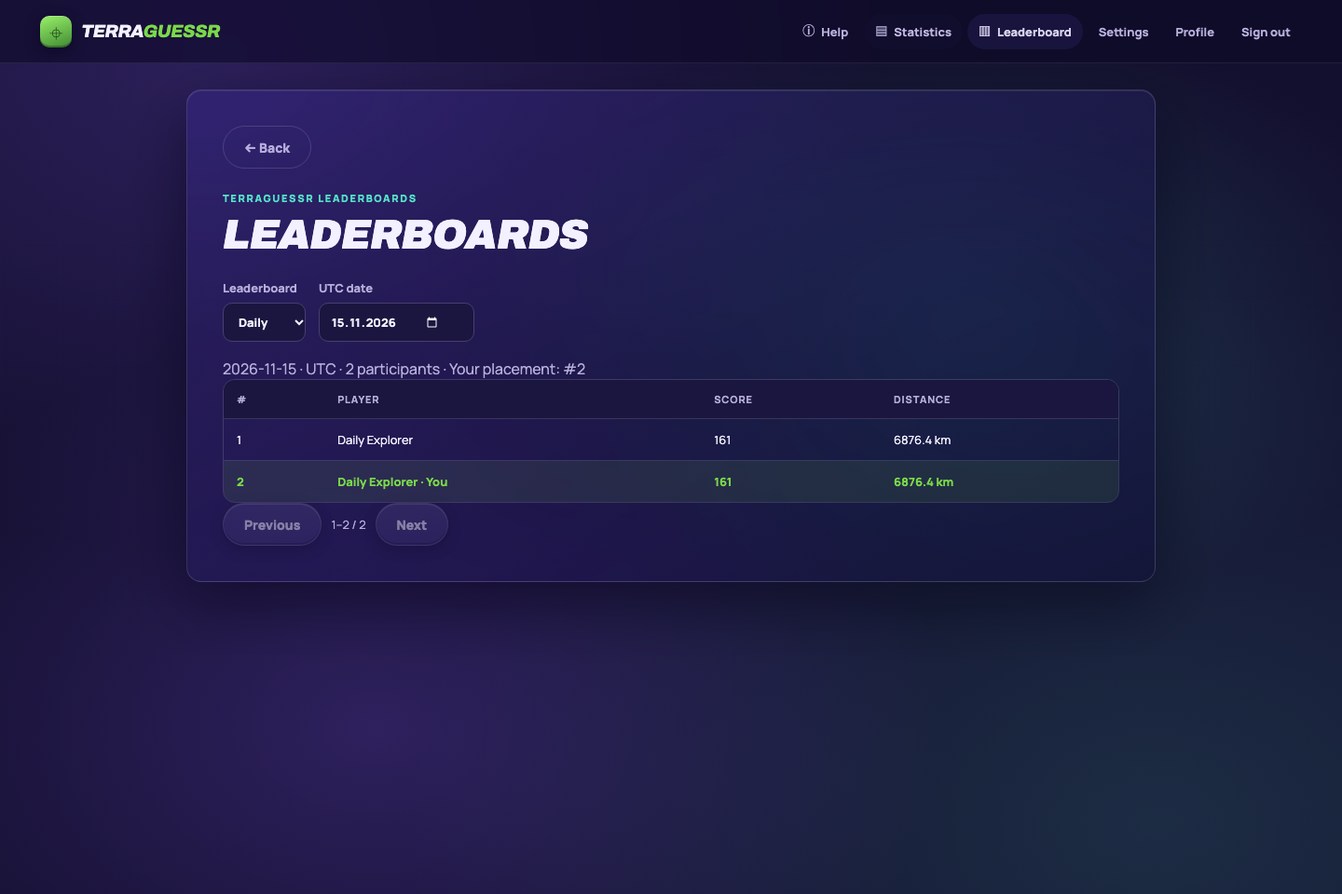
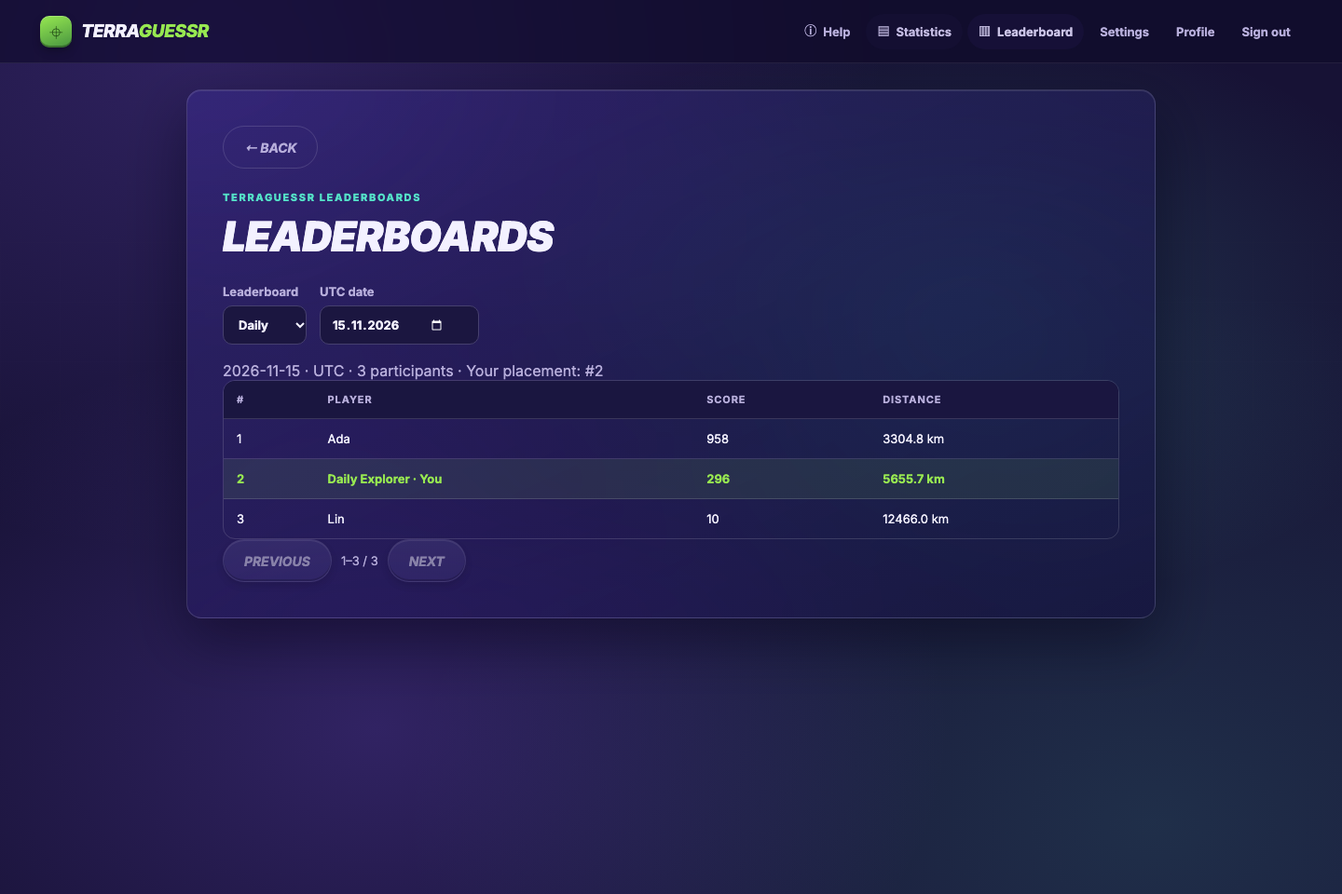
feat: correct design tokens and reskin challenge/duels against real Figma file
Inspects the actual Figma file (sIKTjQ2LtnU5acvpcwZELG) via the Figma MCP
instead of continuing to guess at GeoGuessr's visual language from the live
site. It has three html.to.design-imported sections: the Duels lobby, and
two captures of the GeoGuessr homepage (authenticated dashboard + logged-out
marketing page).

Pulls exact values out of the Duels frame's design context (Inter Black/Bold
Italic, #171235 background, #97e851->#479440 green CTA gradient with its
inset-shadow recipe, #ffc628 gold and the Champion/Master/Gold/Silver/Bronze
rank colors) into design-system.css, replacing the prior redesign's
measured-from-the-live-site approximations. Because the whole app already
runs on these --tg-* tokens, every existing screen inherits the corrected
palette/type/button recipe for free.

Reskins "Challenge a friend" - TerraGuessr's real async-duel feature
(create/share/join/leaderboard) - directly against the Duels frame: bigger
italic/uppercase heading, a rank-tier accent bar, and gold/silver/bronze
rank badges on the leaderboard rows, all driven by the real
LeaderboardEntryDTO.rank. No fake opponent pairing or duel-round tabs were
added since the backend has none of that. Dashboard cards get a small icon
badge matching the Figma card layout.

Verified against the real stack (docker compose up -d --build frontend):
full solo game, challenge create/join, and signup all screenshot cleanly at
1920x1080/1440x900/390x844 with no overflow. 42/42 unit tests and 20/20 e2e
[…]

diff --git a/frontend/src/styles/design-system.css b/frontend/src/styles/design-system.css
@@ -1,45 +1,54 @@
-@import url('https://fonts.googleapis.com/css2?family=DM+Mono:wght@400;500&family=Manrope:wght@400;500;600;700;800&family=Archivo:ital,wght@0,700;0,800;0,900;1,700;1,800;1,900&display=swap');
+@import url('https://fonts.googleapis.com/css2?family=DM+Mono:wght@400;500&family=Inter:ital,wght@0,400;0,500;0,600;0,700;0,800;0,900;1,400;1,500;1,700;1,800;1,900&display=swap');
 
 :root {
-  font-family: 'Manrope', ui-sans-serif, system-ui, -apple-system, BlinkMacSystemFont, 'Segoe UI', sans-serif;
+  font-family: 'Inter', ui-sans-serif, system-ui, -apple-system, BlinkMacSystemFont, 'Segoe UI', sans-serif;
   color: #f3f1ff;
-  background: #130f2e;
+  background: #171235;
   font-synthesis: none;
   text-rendering: optimizeLegibility;
 
-  /* Core surface scale — deep indigo/purple, measured from reference. */
-  --tg-bg: #130f2e;
-  --tg-bg-rgb: 19 15 46;
+  /* Core surface scale — exact values pulled from the Figma file
+     (sIKTjQ2LtnU5acvpcwZELG), not estimated from the live site. */
+  --tg-bg: #171235;
+  --tg-bg-rgb: 23 18 53;
   --tg-surface: #1c1744;
-  --tg-panel: #221c4e;
-  --tg-raised: #2c2563;
+  --tg-panel: #211a4c;
+  --tg-raised: #393273;
   --tg-line: rgb(255 255 255 / 14%);
   --tg-text: #f3f1ff;
   --tg-muted: #b7aedb;
   --tg-soft: #8d84b8;
 
-  /* Accent system: green = primary action, teal/mint = info & focus, violet = highlight. */
-  --tg-green: #7bd84a;
-  --tg-green-dark: #3f8a33;
+  /* Accent system: green = primary action, gold = highlight/rank,
+     teal/mint = info & focus, rank-tier colors match the Figma Duels ladder. */
+  --tg-green: #97e851;
+  --tg-green-dark: #479440;
   --tg-green-ink: #0d2a08;
+  --tg-gold: #ffc628;
   --tg-mint: #54e0c7;
+  --tg-teal: #3ae8bd;
   --tg-violet: #a78bfa;
   --tg-blue: #6fb2ff;
   --tg-danger: #ff6b6b;
-  --tg-danger-strong: #e23b50;
+  --tg-danger-strong: #e94555;
+  --tg-rank-champion: #00a2fe;
+  --tg-rank-master: #e94555;
+  --tg-rank-gold: #ffc628;
+  --tg-rank-silver: #ffffff;
+  --tg-rank-bronze: #ffa43d;
 
   --tg-radius-sm: 10px;
   --tg-radius-md: 16px;
-  --tg-radius-lg: 26px;
+  --tg-radius-lg: 24px;
   --tg-radius-pill: 999px;
 
   --tg-shadow: 0 24px 64px rgb(5 3 20 / 46%);
-  --tg-shadow-pop: 0 4px 16px rgb(5 3 20 / 45%), inset 0 1px 0 rgb(255 255 255 / 22%), inset 0 -2px 0 rgb(0 0 0 / 26%);
+  --tg-shadow-pop: 0 4px 9px rgb(0 0 0 / 25%), inset 0 1px 0 rgb(255 255 255 / 20%), inset 0 -2px 0 rgb(0 0 0 / 30%);
   --tg-glass-blur: blur(26px) saturate(160%);
   --tg-glass-blur-sm: blur(14px) saturate(140%);
-  --tg-glass-bg: linear-gradient(155deg, rgb(55 46 110 / 46%), rgb(19 15 46 / 62%));
+  --tg-glass-bg: linear-gradient(155deg, rgb(57 50 115 / 46%), rgb(23 18 53 / 62%));
   --tg-glass-bg-soft: rgb(44 37 92 / 38%);
-  --tg-glass-bg-strong: linear-gradient(155deg, rgb(58 49 118 / 76%), rgb(17 13 40 / 86%));
+  --tg-glass-bg-strong: linear-gradient(155deg, rgb(57 50 115 / 76%), rgb(17 13 40 / 86%));
   --tg-glass-border: rgb(255 255 255 / 14%);
   --tg-glass-highlight: inset 0 1px 0 rgb(255 255 255 / 10%);
 
@@ -51,7 +60,8 @@
   --tg-space-8: 32px;
   --tg-motion: 160ms ease;
 
-  --tg-font-display: 'Archivo', 'Manrope', sans-serif;
+  /* Figma: Inter Black Italic for headings, Inter Bold Italic for emphasis/buttons. */
+  --tg-font-display: 'Inter', ui-sans-serif, sans-serif;
 }
 
 * { box-sizing: border-box; }
@@ -73,7 +83,7 @@ button:focus-visible, a:focus-visible, input:focus-visible, select:focus-visible
 .tg-topbar-compact .tg-brand-name { font-size: 15px; }
 .tg-topbar-compact .tg-brand-mark { width: 28px; height: 28px; font-size: 14px; }
 .tg-brand { display: inline-flex; align-items: center; gap: 10px; color: inherit; text-decoration: none; white-space: nowrap; }
-.tg-brand-mark { width: 34px; height: 34px; display: grid; place-items: center; border-radius: 10px; color: #0d2a08; background: linear-gradient(160deg, #9af06a, var(--tg-green-dark)); font-size: 17px; box-shadow: var(--tg-shadow-pop); }
+.tg-brand-mark { width: 34px; height: 34px; display: grid; place-items: center; border-radius: 10px; color: var(--tg-green-ink); background: linear-gradient(160deg, var(--tg-green), var(--tg-green-dark)); font-size: 17px; box-shadow: var(--tg-shadow-pop); }
 .tg-brand-name { font-family: var(--tg-font-display); font-weight: 800; font-style: italic; letter-spacing: -.02em; font-size: 19px; text-transform: uppercase; }
 .tg-brand-name span { color: var(--tg-green); }
 .tg-nav { display: flex; align-items: center; gap: 5px; }
@@ -88,11 +98,11 @@ button:focus-visible, a:focus-visible, input:focus-visible, select:focus-visible
 .tg-panel { border: 1px solid var(--tg-glass-border); border-radius: var(--tg-radius-md); background: var(--tg-glass-bg); backdrop-filter: var(--tg-glass-blur); -webkit-backdrop-filter: var(--tg-glass-blur); box-shadow: var(--tg-shadow), var(--tg-glass-highlight); }
 
 /* ---------- Buttons: glossy pill system (measured shadow recipe) ---------- */
-.tg-button { min-height: 46px; padding: 0 22px; display: inline-flex; justify-content: center; align-items: center; gap: 9px; border: 1px solid transparent; border-radius: var(--tg-radius-pill); background: var(--tg-raised); color: var(--tg-text); font-size: 14px; font-weight: 800; cursor: pointer; transition: transform var(--tg-motion), filter var(--tg-motion), border-color var(--tg-motion), box-shadow var(--tg-motion); box-shadow: var(--tg-shadow-pop); }
+.tg-button { min-height: 46px; padding: 0 22px; display: inline-flex; justify-content: center; align-items: center; gap: 9px; border: 1px solid transparent; border-radius: var(--tg-radius-pill); background: var(--tg-raised); color: var(--tg-text); font-family: var(--tg-font-display); font-style: italic; font-size: 14px; font-weight: 700; text-transform: uppercase; letter-spacing: -.005em; cursor: pointer; transition: transform var(--tg-motion), filter var(--tg-motion), border-color var(--tg-motion), box-shadow var(--tg-motion); box-shadow: var(--tg-shadow-pop); }
 .tg-button:hover:not(:disabled) { transform: translateY(-1px); filter: brightness(1.08); }
 .tg-button:active:not(:disabled) { transform: translateY(0); filter: brightness(0.98); }
 .tg-button:disabled { opacity: .48; cursor: not-allowed; }
-.tg-button-primary { color: var(--tg-green-ink); background: linear-gradient(180deg, #9af06a 0%, var(--tg-green-dark) 100%); }
+.tg-button-primary { color: #fff; text-shadow: 0 1px 2px var(--tg-bg); background: linear-gradient(180deg, var(--tg-green) 0%, var(--tg-green-dark) 100%); }
 .tg-button-secondary { color: var(--tg-text); background: linear-gradient(180deg, rgb(189 181 255 / 20%) 0%, rgb(143 134 230 / 20%) 100%); border-color: rgb(255 255 255 / 16%); }
 .tg-button-quiet { background: transparent; border-color: var(--tg-line); color: var(--tg-muted); box-shadow: none; }
 .tg-button-quiet:hover:not(:disabled) { background: rgb(255 255 255 / 6%); }
@@ -101,7 +111,7 @@ button:focus-visible, a:focus-visible, input:focus-visible, select:focus-visible
 .tg-difficulty-picker [role='radiogroup'] { display: grid; grid-template-columns: repeat(3, minmax(0, 1fr)); gap: 10px; }
 .tg-difficulty-card { position: relative; min-height: 112px; display: flex; flex-direction: column; justify-content: center; gap: 8px; padding: 16px; border: 1px solid var(--tg-line); border-radius: var(--tg-radius-md); background: var(--tg-surface); color: var(--tg-text); font-weight: 400; cursor: pointer; overflow: hidden; transition: border-color var(--tg-motion), background var(--tg-motion), transform var(--tg-motion); }
 .tg-difficulty-card::before { content: ''; position: absolute; inset: 0 0 auto 0; height: 4px; background: var(--tg-tier-color, var(--tg-line)); opacity: .9; }
-.tg-difficulty-card[data-testid='difficulty-option-easy'] { --tg-tier-color: linear-gradient(90deg, #7bd84a, #54e0c7); }
+.tg-difficulty-card[data-testid='difficulty-option-easy'] { --tg-tier-color: linear-gradient(90deg, var(--tg-green), var(--tg-mint)); }
 .tg-difficulty-card[data-testid='difficulty-option-medium'] { --tg-tier-color: linear-gradient(90deg, #ffd166, #ff9f43); }
 .tg-difficulty-card[data-testid='difficulty-option-hard'] { --tg-tier-color: linear-gradient(90deg, #ff6b6b, #e23b50); }
 .tg-difficulty-card:hover { border-color: rgb(255 255 255 / 30%); transform: translateY(-2px); }
@@ -171,8 +181,9 @@ button:focus-visible, a:focus-visible, input:focus-visible, select:focus-visible
 /* ---------- Dashboard (authenticated home) ---------- */
 .tg-dashboard { max-width: 1180px; margin: clamp(28px, 7vh, 72px) auto; }
 .tg-dashboard h1 { margin: 8px 0; font-family: var(--tg-font-display); font-weight: 900; font-style: italic; text-transform: uppercase; font-size: clamp(34px, 5.4vw, 54px); letter-spacing: -.015em; }
-.tg-dashboard-card { max-width: 520px; margin-top: 28px; padding: clamp(22px, 4vw, 34px); transition: transform var(--tg-motion), border-color var(--tg-motion); }
+.tg-dashboard-card { position: relative; max-width: 520px; margin-top: 28px; padding: clamp(22px, 4vw, 34px); transition: transform var(--tg-motion), border-color var(--tg-motion); }
 .tg-dashboard-card p { color: var(--tg-muted); line-height: 1.65; }
+.tg-dashboard-card-icon { position: absolute; top: clamp(18px, 3vw, 26px); right: clamp(18px, 3vw, 26px); width: 42px; height: 42px; display: grid; place-items: center; border-radius: 13px; background: var(--tg-glass-bg-soft); border: 1px solid var(--tg-glass-border); font-size: 19px; }
 .tg-dashboard-user { display: flex; align-items: center; gap: 10px; padding: 6px 10px 6px 6px; border: 1px solid var(--tg-line); border-radius: var(--tg-radius-pill); color: var(--tg-muted); font-size: 12px; }
 .tg-avatar { width: 30px; height: 30px; display: grid; place-items: center; border-radius: 50%; color: var(--tg-green-ink); background: var(--tg-green); font-weight: 800; }
 .tg-dashboard-grid { display: grid; grid-template-columns: repeat(auto-fit, minmax(min(100%, 320px), 1fr)); gap: 18px; align-items: stretch; }
@@ -256,7 +267,7 @@ button:focus-visible, a:focus-visible, input:focus-visible, select:focus-visible
 .tg-candidate:hover { border-color: rgb(255 255 255 / 32%); transform: translateY(-2px); }
 .tg-candidate[aria-pressed='true'] { border-color: var(--tg-green); background: rgb(123 216 74 / 12%); box-shadow: inset 0 0 0 1px rgb(123 216 74 / 24%); }
 .tg-candidate-index { width: 36px; height: 36px; flex: 0 0 36px; display: grid; place-items: center; border-radius: 11px; color: #0b0a18; font-family: var(--tg-font-display); font-style: italic; font-size: 14px; font-weight: 800; }
-.tg-candidate-list li:nth-child(4n+1) .tg-candidate-index { background: linear-gradient(160deg, #9af06a, var(--tg-green-dark)); }
+.tg-candidate-list li:nth-child(4n+1) .tg-candidate-index { background: linear-gradient(160deg, var(--tg-green), var(--tg-green-dark)); }
 .tg-candidate-list li:nth-child(4n+2) .tg-candidate-index { background: linear-gradient(160deg, #7fe8d4, #2fae97); }
 .tg-candidate-list li:nth-child(4n+3) .tg-candidate-index { background: linear-gradient(160deg, #ffd166, #e8942f); }
 .tg-candidate-list li:nth-child(4n+4) .tg-candidate-index { background: linear-gradient(160deg, #c3b2ff, #7b53e6); }
@@ -357,7 +368,7 @@ button:focus-visible, a:focus-visible, input:focus-visible, select:focus-visible
 .tg-setup-subsection summary::-webkit-details-marker { display: none; }
 .tg-setup-subsection[open] summary { margin-bottom: 14px; }
 .tg-setup-label { display: grid; gap: 8px; color: #e3deff; font-size: 12px; font-weight: 800; }
-.tg-setup-label select { width: 100%; min-height: 45px; padding: 0 12px; border: 1px solid #45406e; border-radius: var(--tg-radius-sm); color: var(--tg-text); background: #130f2e; }
+.tg-setup-label select { width: 100%; min-height: 45px; padding: 0 12px; border: 1px solid #45406e; border-radius: var(--tg-radius-sm); color: var(--tg-text); background: var(--tg-bg); }
 .tg-setup-checkbox { display: inline-flex; align-items: center; gap: 10px; color: #e3deff; font-size: 12px; font-weight: 700; }
 .tg-setup-checkbox input { width: 18px; height: 18px; accent-color: var(--tg-green); }
 .tg-account-form, .tg-delete-confirm { margin-top: 20px; display: grid; justify-items: start; gap: 13px; }
@@ -467,24 +478,38 @@ button:focus-visible, a:focus-visible, input:focus-visible, select:focus-visible
   .tg-leaderboard-table td:nth-child(3)::before { content: 'PTS '; color: var(--tg-muted); font-size: 9px; }
   .tg-leaderboard-table td:nth-child(4)::before { content: 'KM '; color: var(--tg-muted); font-size: 9px; }
 }
-.tg-challenge-panel { margin-top: 24px; padding: clamp(18px, 3vw, 26px); }
-.tg-challenge-panel h2 { margin: 0 0 4px; font-family: var(--tg-font-display); font-weight: 800; font-style: italic; text-transform: uppercase; font-size: 21px; letter-spacing: -.01em; }
-.tg-challenge-panel > p.tg-muted { margin: 0 0 14px; font-size: 13px; line-height: 1.6; }
+/* Challenge ("async duel") — reskinned against the Figma Duels lobby frame:
+   big italic uppercase heading, pill tabs/badges, rank-tiered leaderboard. */
+.tg-challenge-panel { position: relative; margin-top: 24px; padding: clamp(22px, 4vw, 34px); border-radius: var(--tg-radius-lg); overflow: hidden; }
+.tg-challenge-panel::before { content: ''; position: absolute; inset: 0 0 auto 0; height: 3px; background: linear-gradient(90deg, var(--tg-rank-champion), var(--tg-rank-gold), var(--tg-rank-master), var(--tg-blue)); opacity: .8; }
+.tg-challenge-panel h2 { margin: 0 0 6px; font-family: var(--tg-font-display); font-weight: 900; font-style: italic; text-transform: uppercase; font-size: clamp(22px, 3vw, 30px); letter-spacing: -.015em; }
+.tg-challenge-panel > p.tg-muted { margin: 0 0 16px; font-size: 13px; line-height: 1.6; max-width: 46ch; }
 .tg-challenge-share { margin-top: 14px; }
-.tg-challenge-share label, .tg-challenge-join label { display: block; margin-bottom: 7px; color: #e3deff; font-size: 12px; font-weight: 800; }
+.tg-challenge-share label, .tg-challenge-join label { display: block; margin-bottom: 7px; color: #e3deff; font-size: 12px; font-weight: 700; font-style: italic; text-transform: uppercase; letter-spacing: .02em; }
 .tg-challenge-row { display: flex; gap: 8px; }
-.tg-challenge-row input { flex: 1; min-width: 0; min-height: 42px; padding: 0 12px; border: 1px solid #45406e; border-radius: var(--tg-radius-sm); background: #140f30; color: var(--tg-text); font: inherit; }
+.tg-challenge-row input { flex: 1; min-width: 0; min-height: 44px; padding: 0 14px; border: 1px solid #45406e; border-radius: var(--tg-radius-sm); background: #140f30; color: var(--tg-text); font: inherit; }
 .tg-challenge-row input:focus { border-color: var(--tg-mint); }
 .tg-challenge-join { margin-top: 18px; }
-.tg-challenge-status { margin: 8px 0 0; color: var(--tg-mint); font-size: 12px; }
+.tg-challenge-status { margin: 8px 0 0; color: var(--tg-teal); font-size: 12px; font-weight: 700; }
 .tg-challenge-error { margin: 8px 0 0; color: #ffd2d2; font-size: 12px; }
-.tg-challenge-leaderboard { margin-top: 18px; }
-.tg-challenge-leaderboard h3 { margin: 0 0 10px; font-size: 14px; color: var(--tg-text); }
-.tg-challenge-table-wrap { max-width: 100%; overflow-x: auto; border: 1px solid var(--tg-line); border-radius: 12px; }
+.tg-challenge-leaderboard { margin-top: 22px; }
+.tg-challenge-leaderboard h3 { margin: 0 0 12px; font-family: var(--tg-font-display); font-weight: 800; font-style: italic; text-transform: uppercase; letter-spacing: .02em; font-size: 13px; color: var(--tg-soft); }
+.tg-challenge-table-wrap { max-width: 100%; overflow-x: auto; border: 1px solid var(--tg-line); border-radius: 14px; }
 .tg-challenge-table { width: 100%; min-width: 420px; border-collapse: collapse; font-size: 13px; }
-.tg-challenge-table th, .tg-challenge-table td { padding: 10px 12px; border-bottom: 1px solid var(--tg-line); text-align: left; }
+.tg-challenge-table th, .tg-challenge-table td { padding: 11px 14px; border-bottom: 1px solid var(--tg-line); text-align: left; }
 .tg-challenge-table th { color: var(--tg-muted); background: #1a1640; font-size: 11px; letter-spacing: .06em; text-transform: uppercase; }
 .tg-challenge-table tr:last-child td { border-bottom: 0; }
 .tg-challenge-loading, .tg-challenge-empty { color: var(--tg-muted); font-size: 13px; }
 .tg-challenge-join-page { max-width: 760px; margin: 30px auto; padding: clamp(22px, 4vw, 36px); }
+
+/* Rank badge — small bordered circle + colour-coded label, matching the
+   Figma Duels rank ladder (Champion/Master/Gold/Silver/Bronze markers). */
+.tg-rank-cell { display: flex; align-items: center; gap: 9px; }
+.tg-rank-badge { width: 20px; height: 20px; flex: 0 0 20px; border-radius: 6px; border: 2px solid var(--tg-line); background: var(--tg-bg); display: grid; place-items: center; font-family: var(--tg-font-display); font-style: italic; font-size: 10px; font-weight: 800; color: var(--tg-muted); }
+.tg-challenge-table tr[data-tier='1'] .tg-rank-badge { border-color: var(--tg-rank-gold); color: var(--tg-rank-gold); }
+.tg-challenge-table tr[data-tier='2'] .tg-rank-badge { border-color: var(--tg-rank-silver); color: var(--tg-rank-silver); }
+.tg-challenge-table tr[data-tier='3'] .tg-rank-badge { border-color: var(--tg-rank-bronze); color: var(--tg-rank-bronze); }
+.tg-challenge-table tr[data-tier='1'] td:nth-child(2) { color: var(--tg-rank-gold); font-weight: 800; }
+.tg-challenge-table tr[data-tier='2'] td:nth-child(2) { color: var(--tg-rank-silver); font-weight: 800; }
+.tg-challenge-table tr[data-tier='3'] td:nth-child(2) { color: var(--tg-rank-bronze); font-weight: 800; }
 @media (prefers-reduced-motion: reduce) { *, *::before, *::after { scroll-behavior: auto !important; animation-duration: .01ms !important; animation-iteration-count: 1 !important; transition-duration: .01ms !important; } }

diff --git a/frontend/src/App.tsx b/frontend/src/App.tsx
@@ -424,9 +424,9 @@ function AppShell({ dataSource }: AppShellProps) {
             <h1 id="dashboard-heading">{copy.dashboard}</h1>
             <p className="tg-muted">Your account is ready. Take a solo expedition or join today’s shared UTC challenge.</p>
             <div className="tg-dashboard-grid">
-              <article className="tg-dashboard-card tg-panel"><span className="tg-eyebrow">Explore at your pace</span><h2>{copy.solo}</h2><p>{copy.soloCopy}</p><button type="button" onClick={() => setGameSetupOpen(true)} disabled={busy} className="tg-button tg-button-primary">{copy.create}</button></article>
-              <article className="tg-dashboard-card tg-panel"><span className="tg-eyebrow">One shared location · resets at 00:00 UTC</span><h2>Daily Challenge</h2><p>Everyone gets the same location each UTC day. Submit one guess, then compare your score on the global table.</p><button type="button" onClick={() => void startDaily()} disabled={busy} className="tg-button tg-button-primary">{busy ? 'Preparing…' : 'Play today’s challenge'}</button></article>
-              <article className="tg-dashboard-card tg-panel tg-mode-unavailable"><span className="tg-eyebrow">Coming in later phases</span><h2>Multiplayer · Ranked</h2><p>Live rooms and server matchmaking are still in development.</p></article>
+              <article className="tg-dashboard-card tg-panel"><span className="tg-dashboard-card-icon" aria-hidden="true">✈</span><span className="tg-eyebrow">Explore at your pace</span><h2>{copy.solo}</h2><p>{copy.soloCopy}</p><button type="button" onClick={() => setGameSetupOpen(true)} disabled={busy} className="tg-button tg-button-primary">{copy.create}</button></article>
+              <article className="tg-dashboard-card tg-panel"><span className="tg-dashboard-card-icon" aria-hidden="true">☀</span><span className="tg-eyebrow">One shared location · resets at 00:00 UTC</span><h2>Daily Challenge</h2><p>Everyone gets the same location each UTC day. Submit one guess, then compare your score on the global table.</p><button type="button" onClick={() => void startDaily()} disabled={busy} className="tg-button tg-button-primary">{busy ? 'Preparing…' : 'Play today’s challenge'}</button></article>
+              <article className="tg-dashboard-card tg-panel tg-mode-unavailable"><span className="tg-dashboard-card-icon" aria-hidden="true">⚔</span><span className="tg-eyebrow">Coming in later phases</span><h2>Multiplayer · Ranked</h2><p>Live rooms and server matchmaking are still in development.</p></article>
             </div>
           </section>
         ) : null}

diff --git a/frontend/src/features/challenge/ChallengeLeaderboard.tsx b/frontend/src/features/challenge/ChallengeLeaderboard.tsx
@@ -115,9 +115,12 @@ export function ChallengeLeaderboard({
                 <tr
                   key={entry.rank + '-' + (entry.displayName ?? 'anonymous') + '-' + index}
                   data-testid="leaderboard-row"
+                  data-tier={entry.rank <= 3 ? entry.rank : undefined}
                 >
                   <td data-testid="leaderboard-rank">
-                    {entry.rank}
+                    <span className="tg-rank-cell">
+                      <span className="tg-rank-badge">{entry.rank}</span>
+                    </span>
                   </td>
                   <td data-testid="leaderboard-name">
                     {formatDisplayName(entry)}

diff --git a/docs/FIGMA-REDESIGN-HANDOFF.md b/docs/FIGMA-REDESIGN-HANDOFF.md
@@ -1,0 +1,120 @@
+# Figma-sourced visual redesign — handoff
+
+Branch: `figma/visual-fidelity` (off `main`, not merged). Figma file:
+`sIKTjQ2LtnU5acvpcwZELG` ("software-engineering-design"), root node `0:1`.
+
+## What was actually inspected in Figma
+
+The file contains exactly three `html.to.design`-imported sections (desktop
+1920w + mobile 390w frame per section):
+
+- `53:300` — `geoguessr.com/multiplayer/duels` (the Duels pre-game lobby).
+- `53:766` — `geoguessr.com/` (authenticated dashboard: avatar-on-globe hero,
+  left flyout nav card, right ad/subscribe cards, header nav).
+- `53:1154` — `geoguessr.com/?utm_source=chatgpt.com` (the logged-out public
+  marketing landing page: "Explore the world" hero + footer w/ FAQ accordion).
+
+All three were opened via `get_metadata`/`get_screenshot`/`get_design_context`
+(session `eb524ac0-...`) and cropped around the oversized decorative
+background layers that `html.to.design` imports without clipping (they
+report an inflated bounding box — `get_screenshot` with `contentsOnly` does
+not fix this; the fix was screenshotting the inner content frame directly,
+e.g. node `53:12` for Duels' `Main` container).
+
+Exact tokens pulled from the Duels frame's `get_design_context` reference
+code (now in `frontend/src/styles/design-system.css`):
+- Font: Inter, Black Italic (900) for headings, Bold Italic (700) for
+  buttons/emphasis — not Archivo/Manrope as the prior (pre-Figma) redesign
+  guessed.
+- Background `#171235`, panel gradient `rgb(57 50 115 / x%)`.
+- Green CTA gradient `#97e851 → #479440` with `inset 0 1px 0 #fff/20%, inset
+  0 -2px 0 #000/30%` and a `0 1px 2px #171235` text-shadow on the label.
+- Gold `#ffc628`, teal `#3ae8bd`, and rank-tier colors Champion `#00a2fe` /
+  Master `#e94555` / Gold `#ffc628` / Silver `#fff` / Bronze `#ffa43d`.
+
+## What was implemented
+
+- **Design tokens** (`frontend/src/styles/design-system.css`): corrected to
+  the exact Figma values above. This cascades through every screen already
+  built on `--tg-*` variables, so buttons, headings, panels, dashboard,
+  gameplay HUD, results, settings, etc. all picked up the corrected palette,
+  font, and button recipe (pill, uppercase, italic, Figma shadow stack)
+  without per-screen edits.
+- **"Challenge a friend"** (`ChallengePanel`/`ChallengeLeaderboard`) — this is
+  TerraGuessr's real async-duel feature (create a challenge from a finished
+  round, share a link, a friend plays the same location, both land on one
+  leaderboard). It is the functional equivalent of the Figma Duels screen and
+  was reskinned directly against that frame: bigger italic/uppercase heading,
+  a rank-tier colour accent bar, and rank badges (bordered circle, gold /
+  silver / bronze by position) on the leaderboard rows — all driven by real
+  `LeaderboardEntryDTO.rank` data, nothing fabricated. No fake opponent
+  pairing, duel-round tabs, or ranked ladder were added, since the backend
+  has none of that — only the real create/share/join/leaderboard flow got a
+  visual upgrade.
+- **Dashboard cards** got a small icon badge (top-right, matching the Figma
+  card layout convention) for Solo / Daily Challenge / Multiplayer-placeholder.
+- Verified end-to-end against the real stack: rebuilt `terraguessr-frontend`
+  via `docker compose up -d --build frontend` (this repo's own
+  `docker-compose.yml`, documented in `docs/MANUAL-TESTING.md`), played a
+  full 5-round solo game, created a challenge, joined it, and signed up for
+  the authenticated dashboard — all via Playwright, screens hold up at
+  1920×1080, 1440×900, and 390×844 with no overflow/overlap.
+- Full `npm run test` (42/42) and the full `e2e/` Playwright suite (20/20)
+  pass against a clean, isolated `docker-compose.test.yml` stack (ports
+  5433/3005/8085/4004 to avoid colliding with other stacks already running
+  on this machine). Two apparent failures on the first run
+  (`phase1-visual.spec.ts` ×2, `00-weather-fallback.spec.ts`) were both
+  artifacts of ad-hoc manual verification requests polluting the shared
+  deterministic weather-mock counters / round sequence beforehand, and a
+  hardcoded `localhost:4001` default in that one spec not matching the
+  isolated stack's weather-mock port — not regressions. Re-run clean, all 20
+  pass.
+
+## What was not done (deferred)
+
+This Figma file only covers Duels + the dashboard/landing marketing page.
+The brief's full priority list (landing, dashboard, config, solo gameplay,
+map guessing, round/final results, lobby, tutorial, settings/leaderboard)
+only has direct Figma coverage for the dashboard and the Duels-equivalent
+challenge screen — everything else in TerraGuessr already existed from the
+prior (pre-Figma) redesign commit `be57bec` and now inherits the
+Figma-corrected tokens, but was **not** individually re-checked frame-by-frame
+against Figma because there is no Figma reference for those screens. Not
+done in this session:
+
+- The public logged-out marketing landing page (`53:1154`) was inspected
+  (hero + footer) but TerraGuessr's own hero copy/structure was kept as-is
+  (different product, no "100M players"/App Store rating claims to fabricate)
+  — only the type/color system was pulled forward, not a literal rebuild of
+  that page's layout.
+- The dashboard's right-side ad cards ("Play our free horror mode",
+  "Subscribe") and the notifications drawer have no TerraGuessr equivalent
+  and were intentionally not replicated (would be fake UI for features that
+  don't exist).
+- No mobile bottom tab bar (seen in the Figma mobile captures) was added;
+  TerraGuessr mobile still relies on the existing collapsed top nav.
+- Visual regression screenshots only cover the screens touched this session
+  (landing hero, solo game, results + challenge panel, dashboard) at the
+  four required breakpoints. `docs/screenshots/*.png` were refreshed by the
+  existing `e2e/zz-screenshots.spec.ts`/`phase2-auth.spec.ts` suite, not a
+  new exhaustive breakpoint matrix for every screen.
+
+## Next steps if continuing
+
+1. If more Figma frames get added to the file (the brief says it "currently"
+   has three imported sections, implying more may follow), re-run
+   `get_metadata` on `0:1` — it's cheap and will show new top-level sections.
+2. Decide whether the dashboard's left "flyout" card style (streak counter,
+   locked "World" tile) is worth adapting for TerraGuessr's real
+   streak/statistics data — there's a real daily-streak feature already
+   (`PlayerPages`) that could reuse that visual pattern.
+3. Any work on the mobile bottom tab bar should map to real destinations
+   only (Home, Daily Challenge) — don't add a third icon unless a third real
+   mode exists.
+
+## Verification artifacts (this session, not committed — ephemeral)
+
+Playwright screenshots from this session's manual verification live under
+the session scratchpad, not in the repo. Re-run them anytime with:
+`docker compose up -d --build frontend && npx playwright test` (default
+`docker-compose.yml`, backend on 3004, frontend on 8080).
